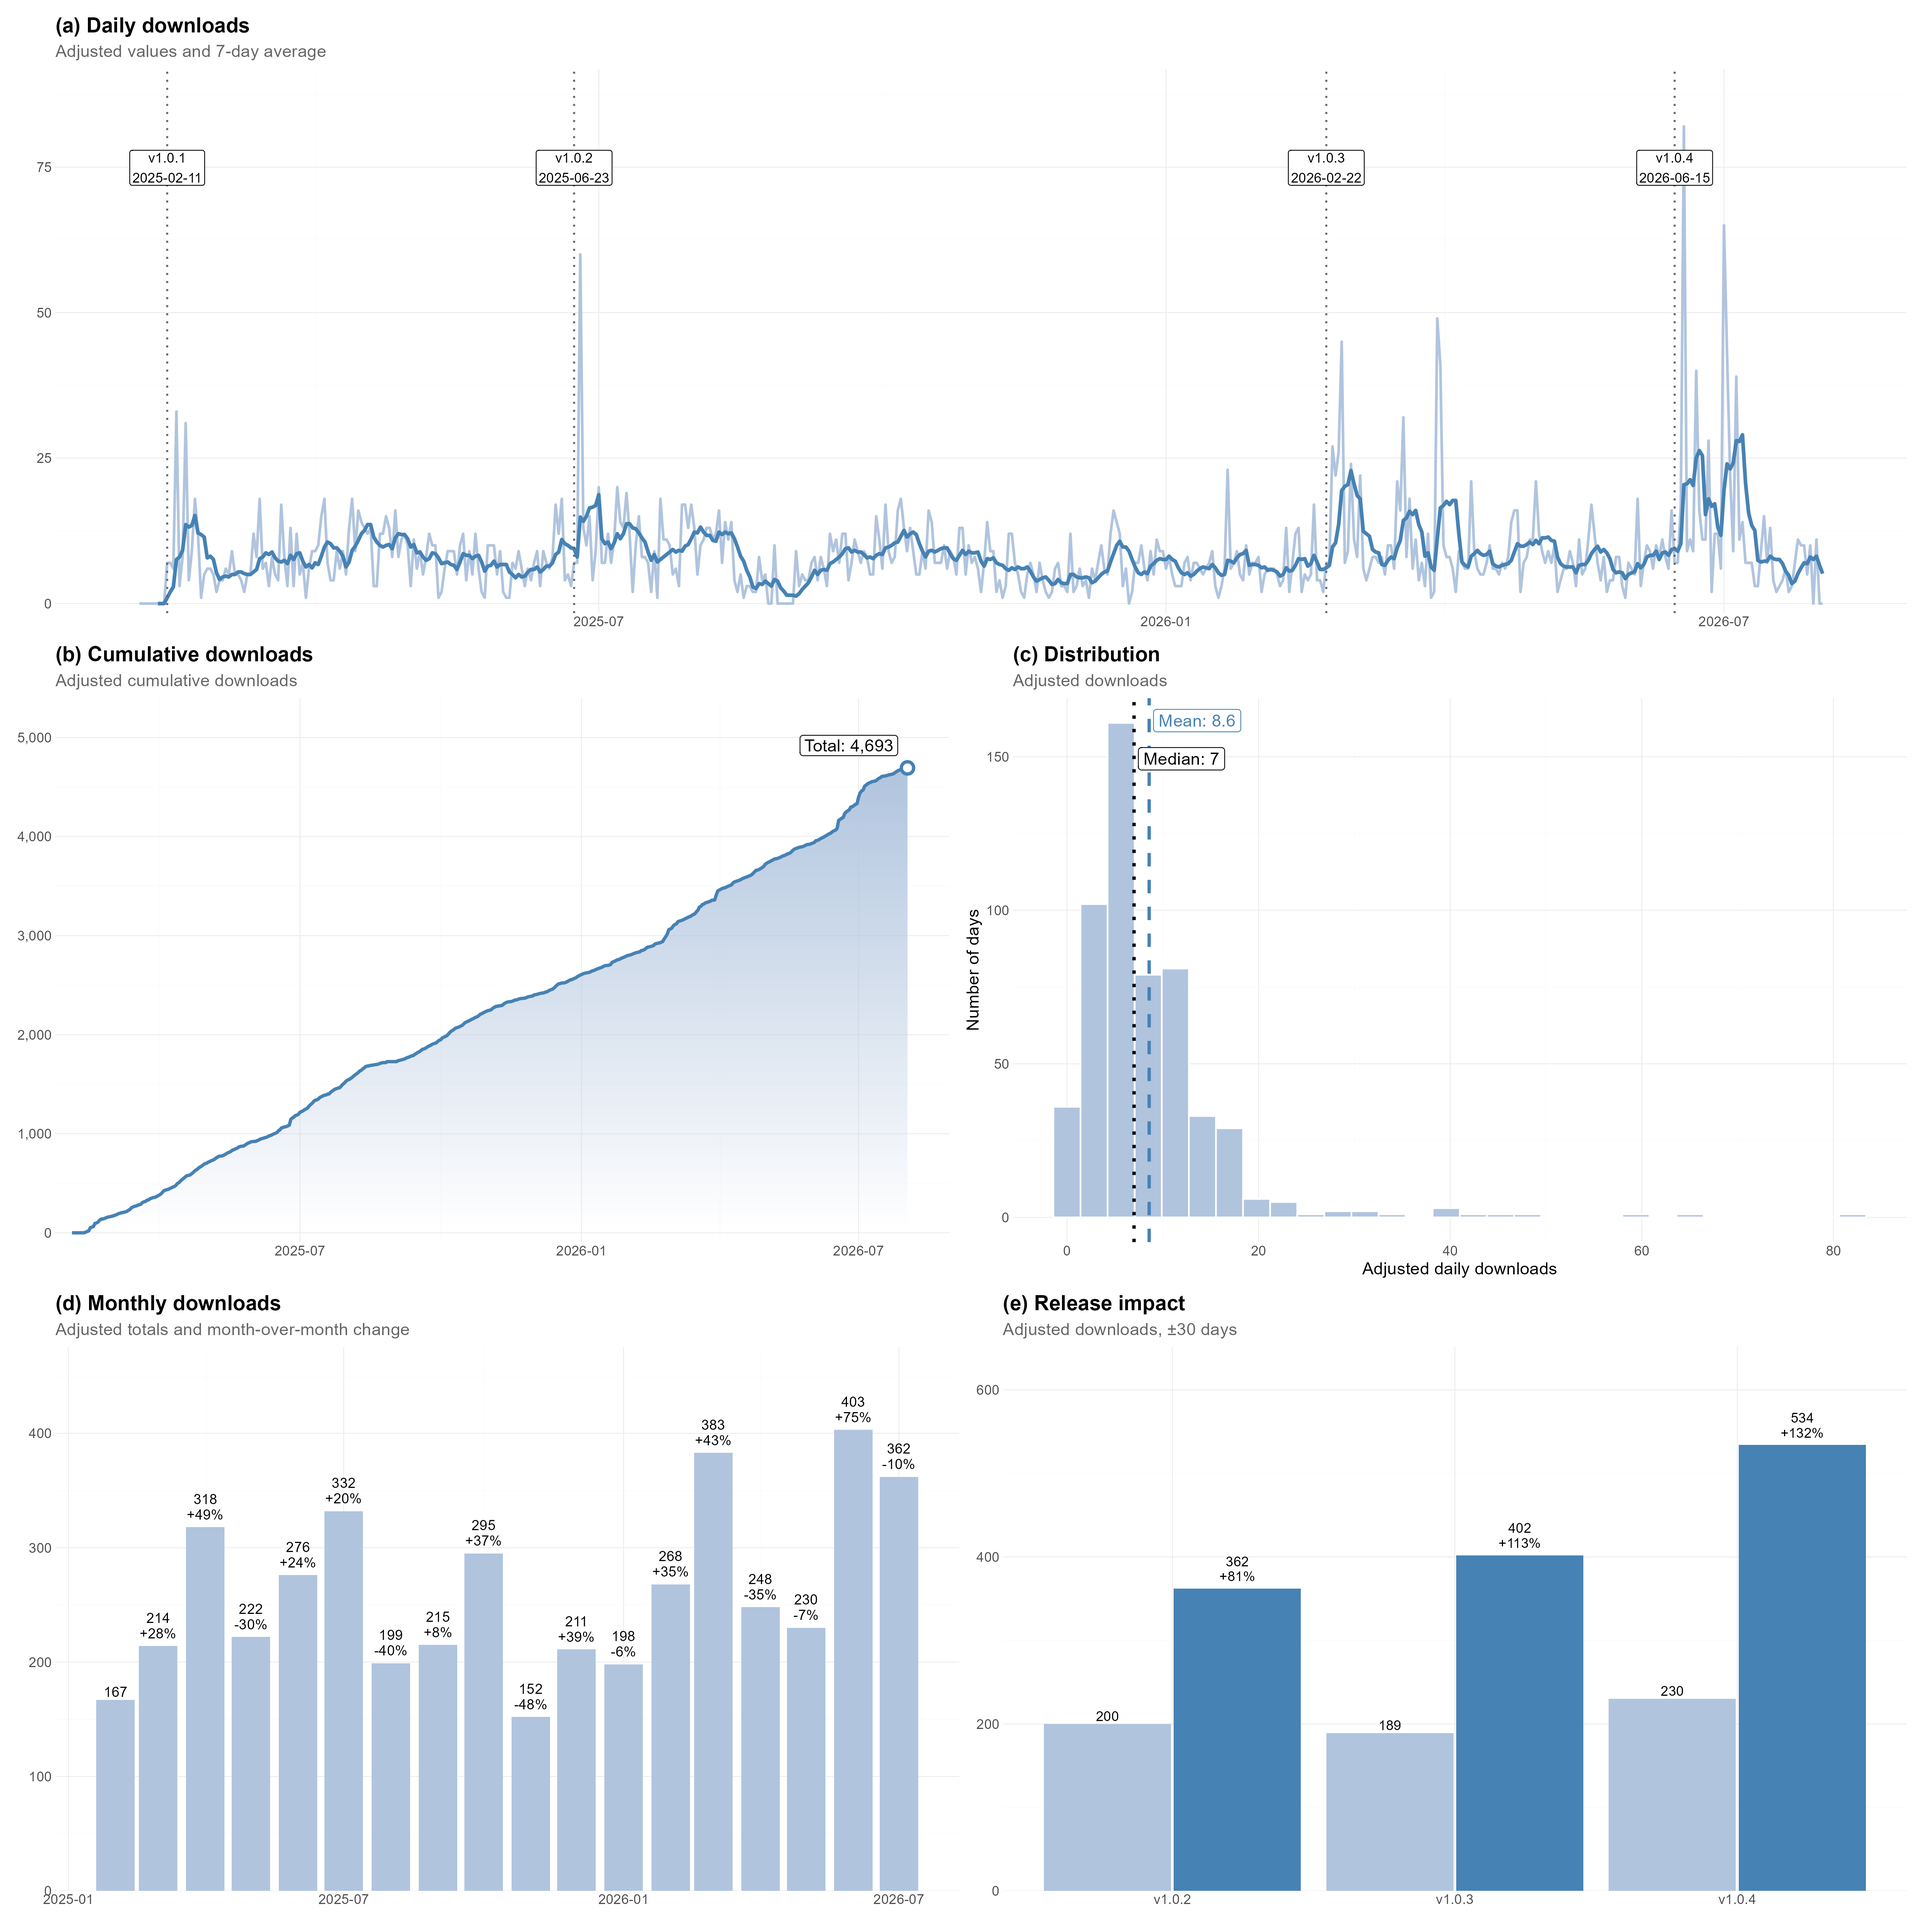
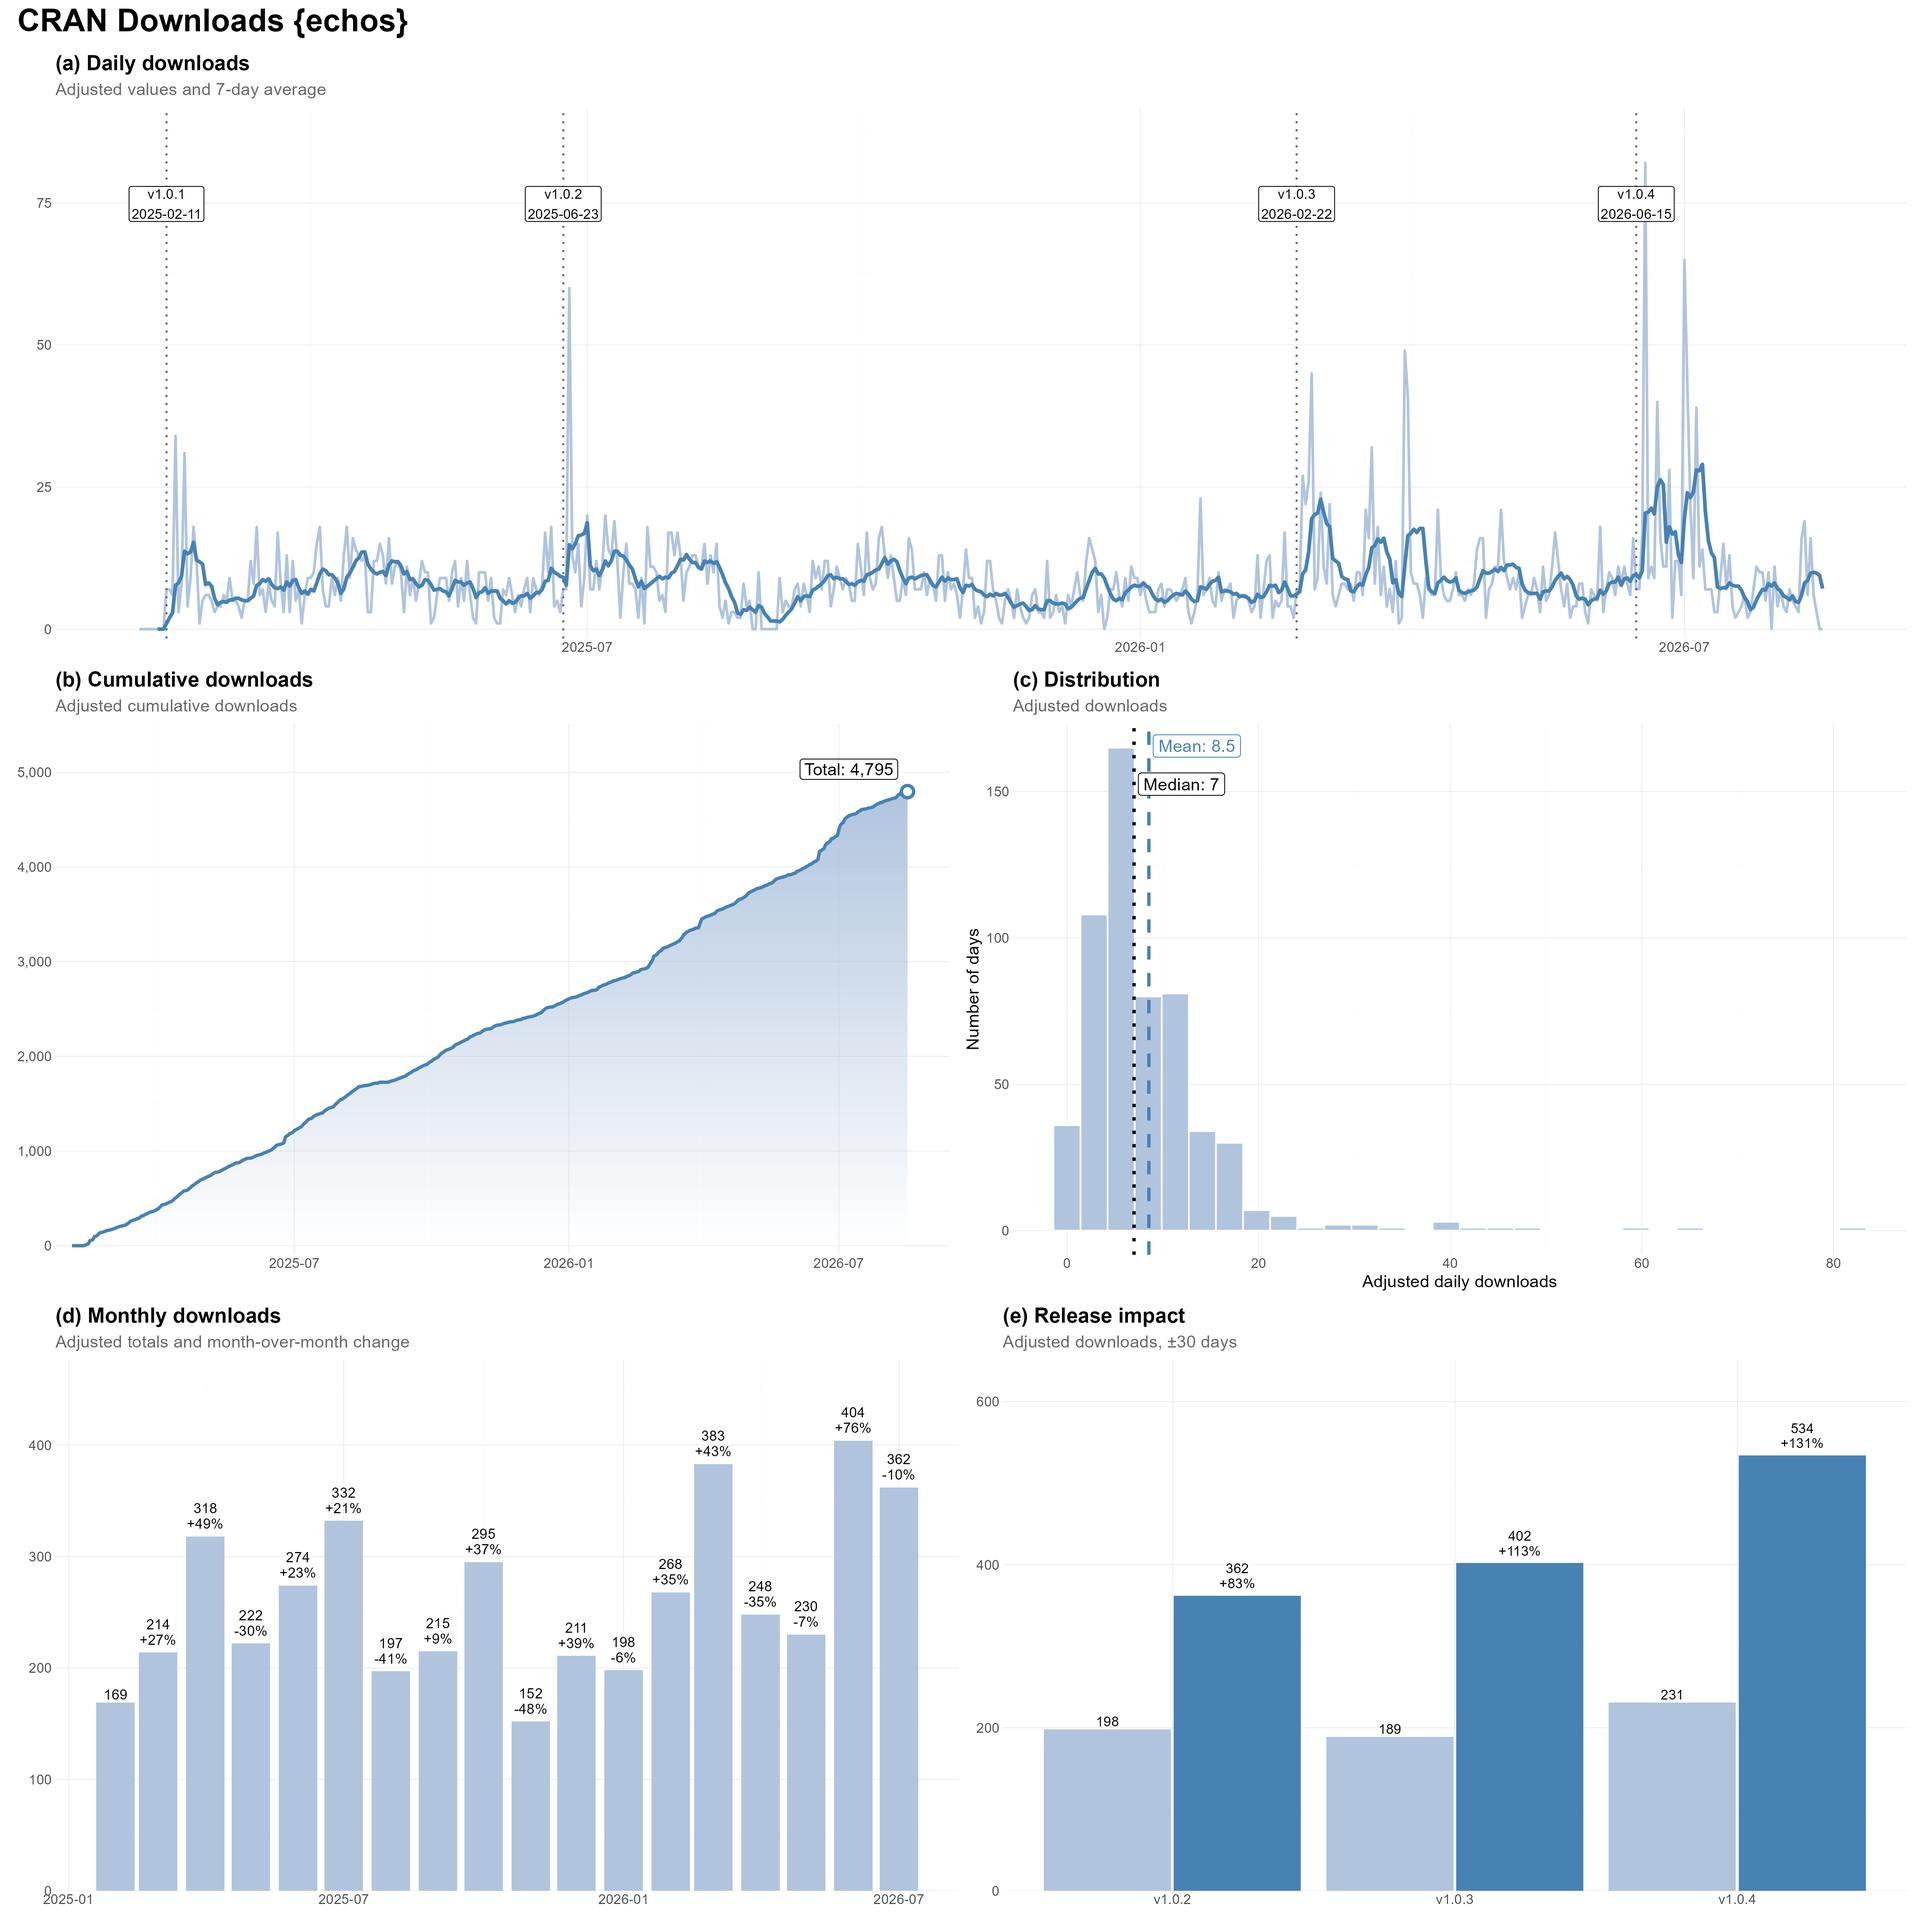
Adjust script; update figure and README

diff --git a/README.md b/README.md
@@ -1,8 +1,6 @@
 
 <!-- README.md is generated from README.Rmd. Please edit that file -->
 
-# CRAN download analysis
-
-## R package {echos}
+# CRAN Download Analysis
 
 <img src="figure_downloads_echos.png" alt="" width="100%" style="display: block; margin: auto;" />
